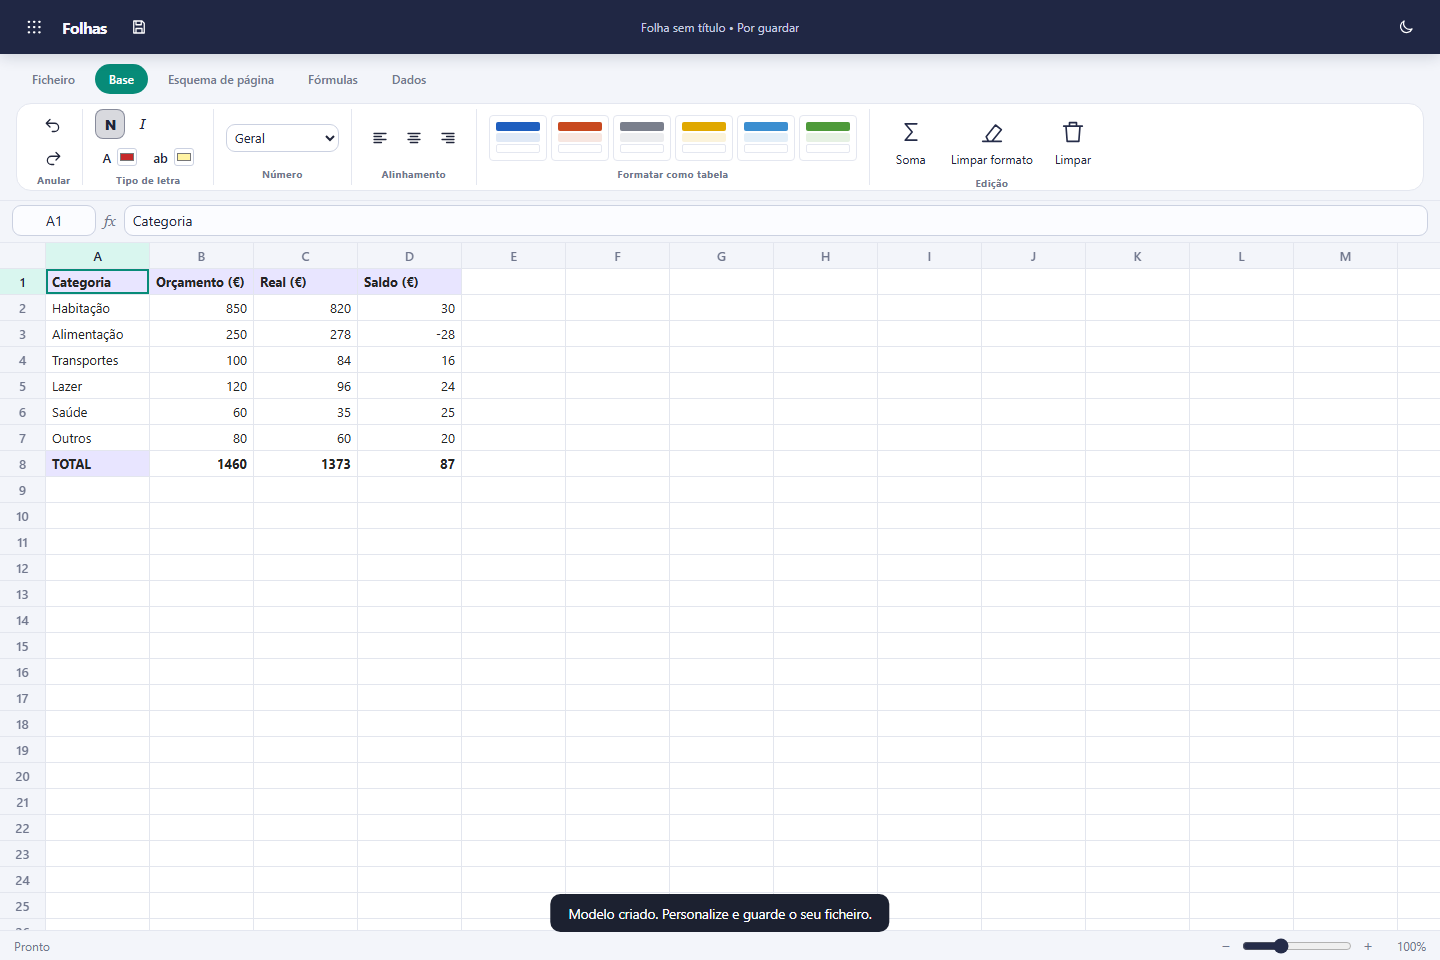
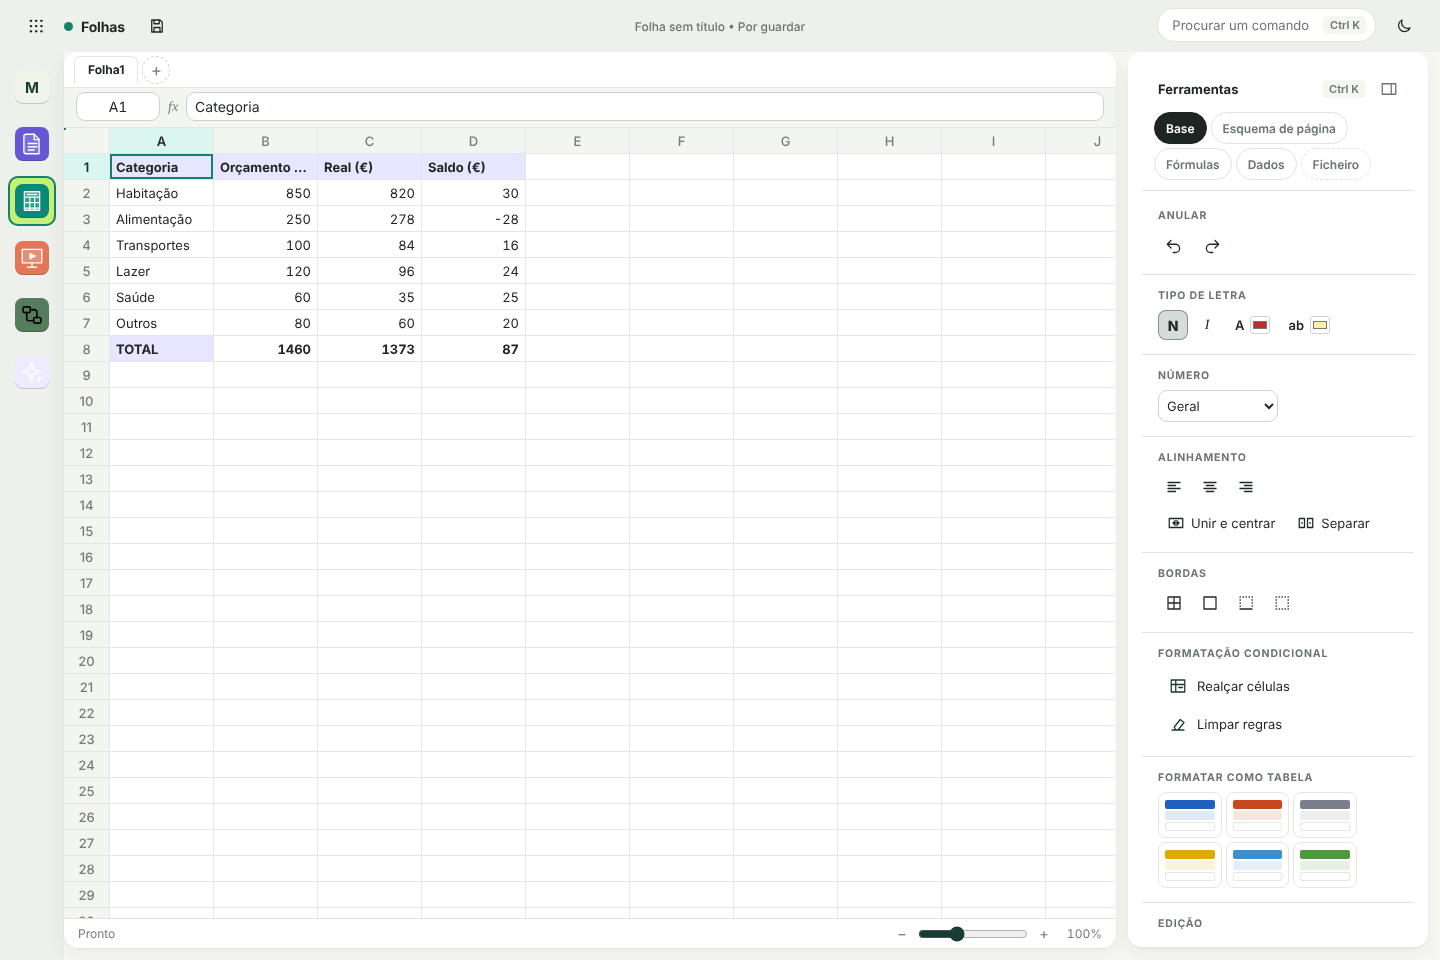
README: new look section and fresh screenshots; readable app rail labels
Claude-Session: https://claude.ai/code/session_01JhikhFVXn8gHkb43DhDLf6

diff --git a/src/css/app.css b/src/css/app.css
@@ -2060,3 +2060,7 @@ body:not([data-current="home"]) .rail-btn .app-tile { width: 34px; height: 34px;
 @media print {
   html, body, #print-area, .print-document, .print-doc, .print-sheet { background: #fff !important; }
 }
+/* The rail now sits on the light studio canvas: readable labels */
+.rail-btn { color: var(--studio-ink); }
+.rail-btn:hover { background: var(--studio-soft); }
+#rail::before { color: var(--studio-muted); }

diff --git a/README.md b/README.md
@@ -12,6 +12,7 @@ Texto, folhas de cálculo, apresentações e diagramas numa só aplicação. Os 
 
 ## Índice
 
+- [Um visual próprio](#um-visual-próprio)
 - [As aplicações](#as-aplicações)
 - [Instalação](#instalação)
 - [Ficheiros do Microsoft Office](#ficheiros-do-microsoft-office)
@@ -20,6 +21,19 @@ Texto, folhas de cálculo, apresentações e diagramas numa só aplicação. Os 
 - [Privacidade e segurança](#privacidade-e-segurança)
 - [O que ainda não faz](#o-que-ainda-não-faz)
 - [Desenvolvimento](#desenvolvimento)
+
+## Um visual próprio
+
+O MyOffice não imita o Office. Em vez da faixa de separadores no topo, cada aplicação tem um **estúdio**:
+
+- **O documento ao centro**, com espaço para trabalhar e sem barras a ocupar o ecrã.
+- **Painel de ferramentas à direita**, organizado em secções (Tipo de letra, Bordas, Alinhar…). Esconde-se com **Ctrl+.** quando precisa de mais espaço.
+- **Barra de aplicações à esquerda**, sempre visível: passe de Texto para Folhas ou Diapositivos com um clique.
+- **Procura de comandos (Ctrl+K)**: escreva o que quer fazer, como "borda", "gráfico" ou "PDF", e carregue em Enter. Não precisa de saber onde está cada botão.
+
+![Procura de comandos nas Folhas](docs/screenshots/comandos.png)
+
+Tons calmos de verde e papel, com modo claro e escuro.
 
 ## As aplicações
 
